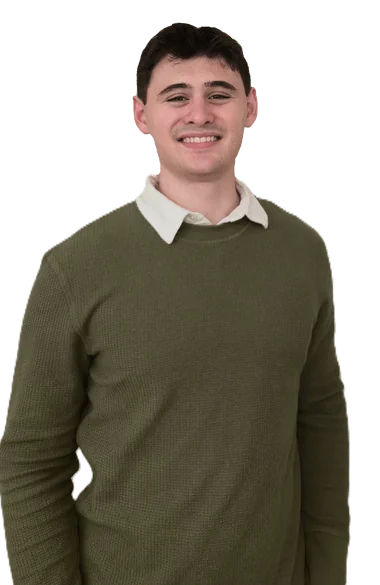
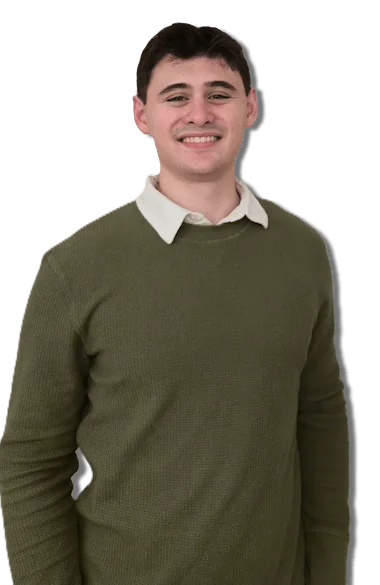
Update box shadow & background for Bio images

diff --git a/src/bio/index.css b/src/bio/index.css
@@ -48,6 +48,11 @@ h1 {
 #slideshow-2 { position: relative }
 
 #slideshow-2,
+picture.hide-mobile {
+    box-shadow: .125rem .125rem 1.5rem #0009;
+}
+
+#slideshow-2,
 picture,
 .bio-img {
     height: 26rem;
@@ -56,10 +61,8 @@ picture,
 
 .bio-img {
     object-fit: cover;
-    background: #e7dfda;
-
+    background: var(--accent-base);
     border-radius: 0.25rem;
-    box-shadow: 0.125rem 0.125rem 1.5rem #0009;
 }
 
 #slideshow-2 picture { position: absolute }
